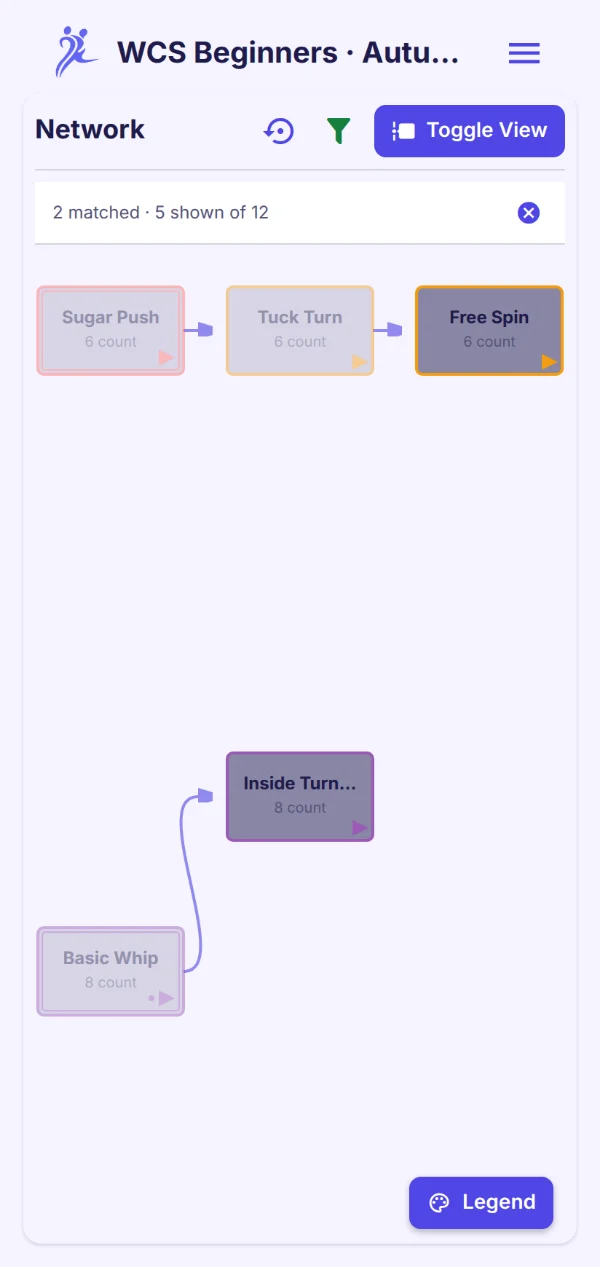
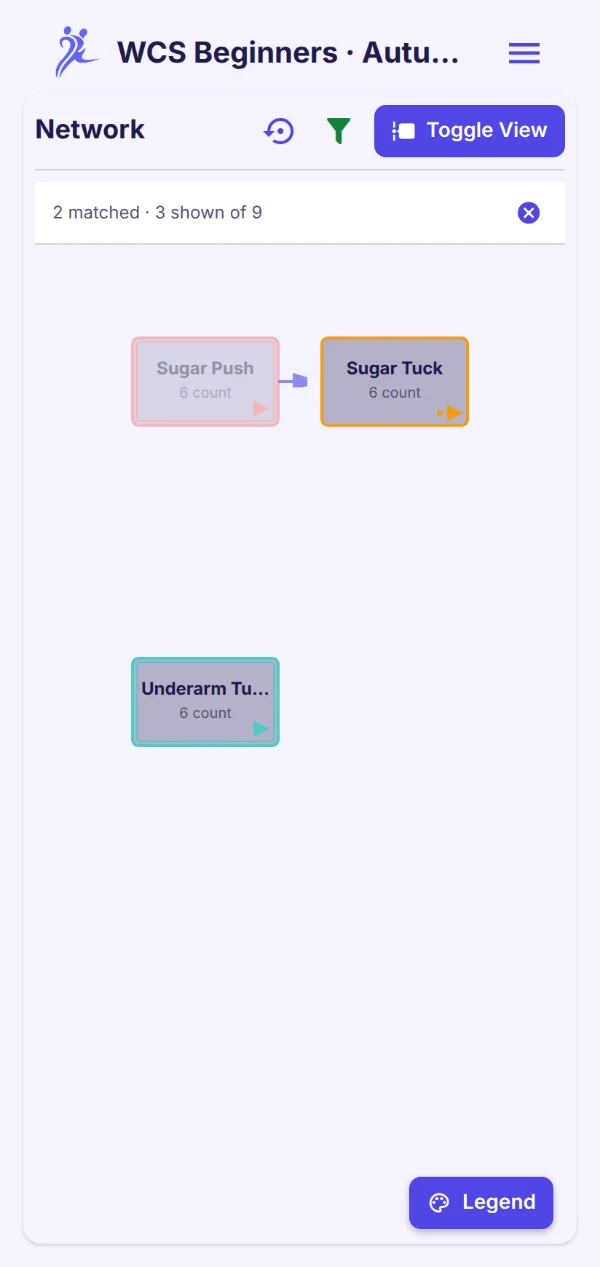
Rebuild the screenshot course list from Oliver's review
Turn variations are modifiers, not patterns: inside turn, outside turn,
free spin and duck amend the left side pass, basic whip and the tucks.
Hesitation and hand change are universal. The sugar tuck builds on the
sugar push and the tuck turn on the left side pass, as in common
syllabi. Texts and alt text follow the new list.

Claude-Session: https://claude.ai/code/session_017MjUedyUaDx1vcBwZbNwXJ

diff --git a/website/index.html b/website/index.html
@@ -88,7 +88,7 @@
                   width="600"
                   height="1267"
                   fetchpriority="high"
-                  alt="DPM showing a West Coast Swing course as a network: sugar push leads to tuck turn and free spin, underarm turn to behind-the-back pass, and the basic whip to four whip variations"
+                  alt="DPM showing a West Coast Swing course as a network: the sugar push leads to the sugar tuck, the left side pass to the tuck turn, and the basic whip to the basket, behind-the-back and hustle whips"
                 />
               </picture>
           </div>
@@ -140,8 +140,9 @@
             <p>
               Some figures are foundations of the dance. In West Coast Swing, the sugar push, the
               left side pass, the underarm turn and the whip each stand on their own. Others grow
-              out of them: a tuck turn builds on the sugar push, an inside turn whip on the basic
-              whip. You record which figure builds on which, and DPM draws the map.
+              out of them: the sugar tuck out of the sugar push, the tuck turn out of the left side
+              pass, the basket whip out of the basic whip. You record which figure builds on which,
+              and DPM draws the map.
             </p>
           </div>
           <ol class="steps">
@@ -197,7 +198,7 @@
                   width="600"
                   height="1267"
                   loading="lazy"
-                  alt="The timeline view: one lane per pattern type, flowing left to right from the foundations, such as the basic whip leading to inside turn, outside turn, basket and reverse whips"
+                  alt="The timeline view: one lane per pattern type, flowing left to right from the foundations, such as the basic whip leading to the basket, behind-the-back and hustle whips"
                 />
               </picture>
             </div>
@@ -212,7 +213,7 @@
                 connected to it, in view. The matches stay bright and the rest fades back.
               </p>
               <p>
-                Tag each figure with its course week, filter for week 3, and you see that week's
+                Tag each figure with its course week, filter for week 2, and you see that week's
                 new figures together with the ones they build on.
               </p>
               <p class="muted">
@@ -228,7 +229,7 @@
                   width="600"
                   height="1267"
                   loading="lazy"
-                  alt="The network filtered to the week 3 tag: free spin and inside turn whip stand out, with the patterns they build on faded behind them"
+                  alt="The network filtered to the week 2 tag: the underarm turn and the sugar tuck stand out, with the sugar push it builds on faded behind them"
                 />
               </picture>
             </div>
@@ -238,7 +239,7 @@
             <div>
               <h2>Variations without duplicates</h2>
               <p>
-                "With an inside turn", "hesitation", "slow": <strong>modifiers</strong> change how a
+                "With an inside turn", "with a free spin", "hesitation": <strong>modifiers</strong> change how a
                 pattern is danced without making it a new pattern. Each one comes before, after or
                 inside the pattern it's attached to.
               </p>
@@ -266,7 +267,7 @@
                   width="600"
                   height="1267"
                   loading="lazy"
-                  alt="The modifiers of a course list: "with Inside Turn" is applied to the left side pass and the underarm turn, and "Slow tempo" is universal"
+                  alt="The modifiers of a course list: with Inside Turn is applied to the left side pass and the basic whip; Hesitation and with Hand Change are universal"
                 />
               </picture>
             </div>
@@ -365,7 +366,7 @@
                 </g>
                 <rect class="art-variant" x="0" y="250" width="420" height="80" rx="12" />
                 <text class="art-label-muted" x="16" y="274">SUGGESTED</text>
-                <text class="art-label" x="16" y="298" style="font-size: 15px; font-weight: 700; stroke: none">Inside-Turn Whip</text>
+                <text class="art-label" x="16" y="298" style="font-size: 15px; font-weight: 700; stroke: none">Sugar Tuck</text>
                 <rect x="300" y="282" width="104" height="30" rx="15" fill="var(--primary)" />
                 <text x="352" y="302" text-anchor="middle" fill="var(--on-primary)" style="font: 700 12px system-ui, sans-serif">Use suggestion</text>
               </svg>
